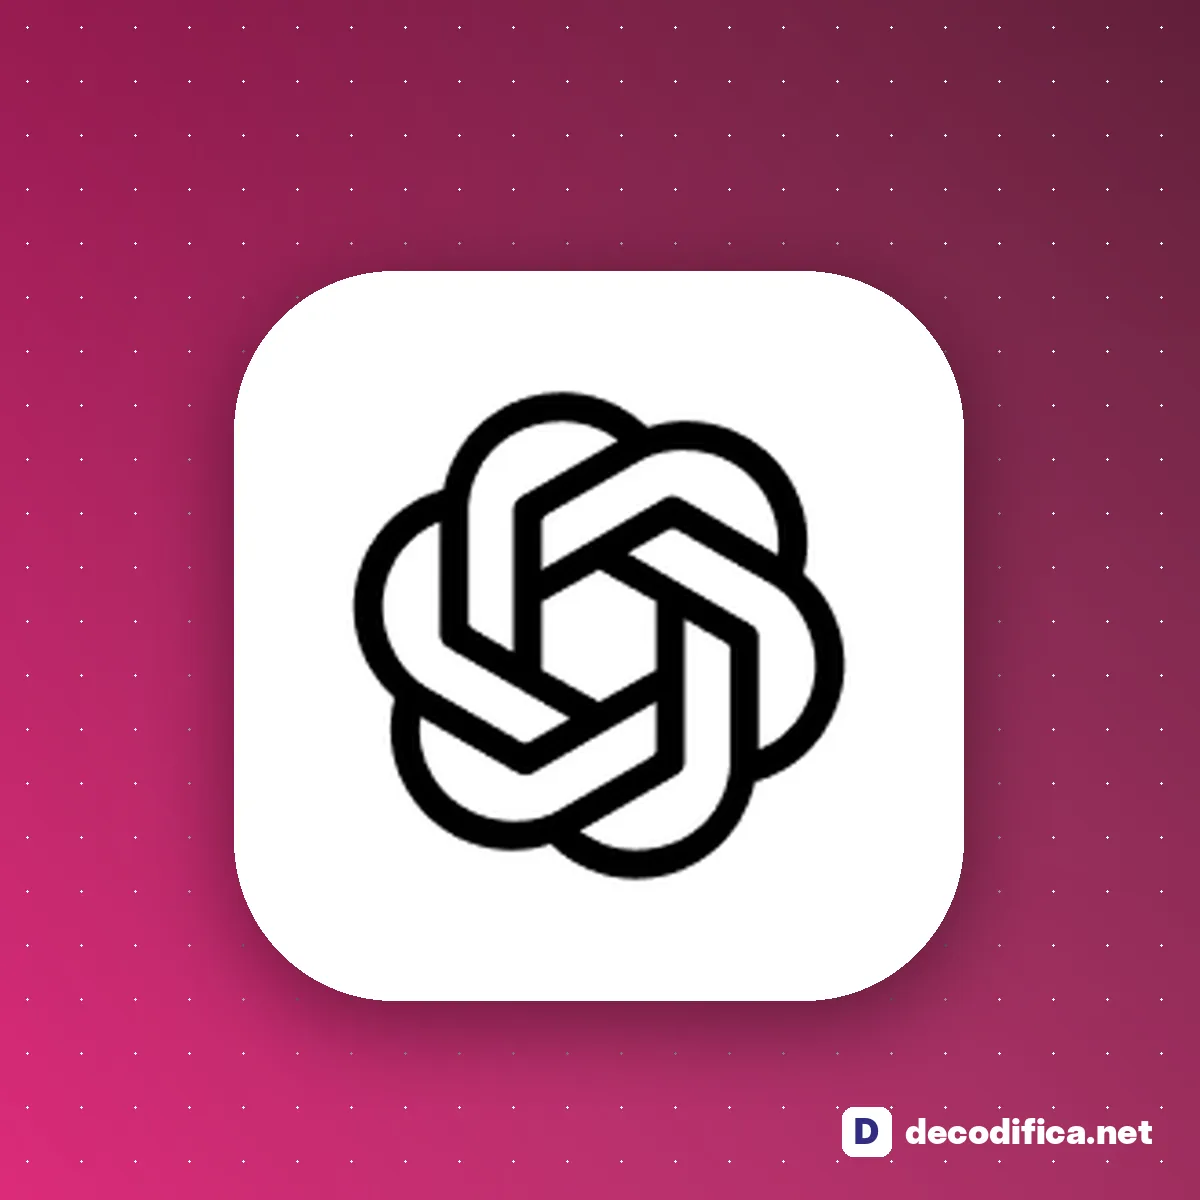
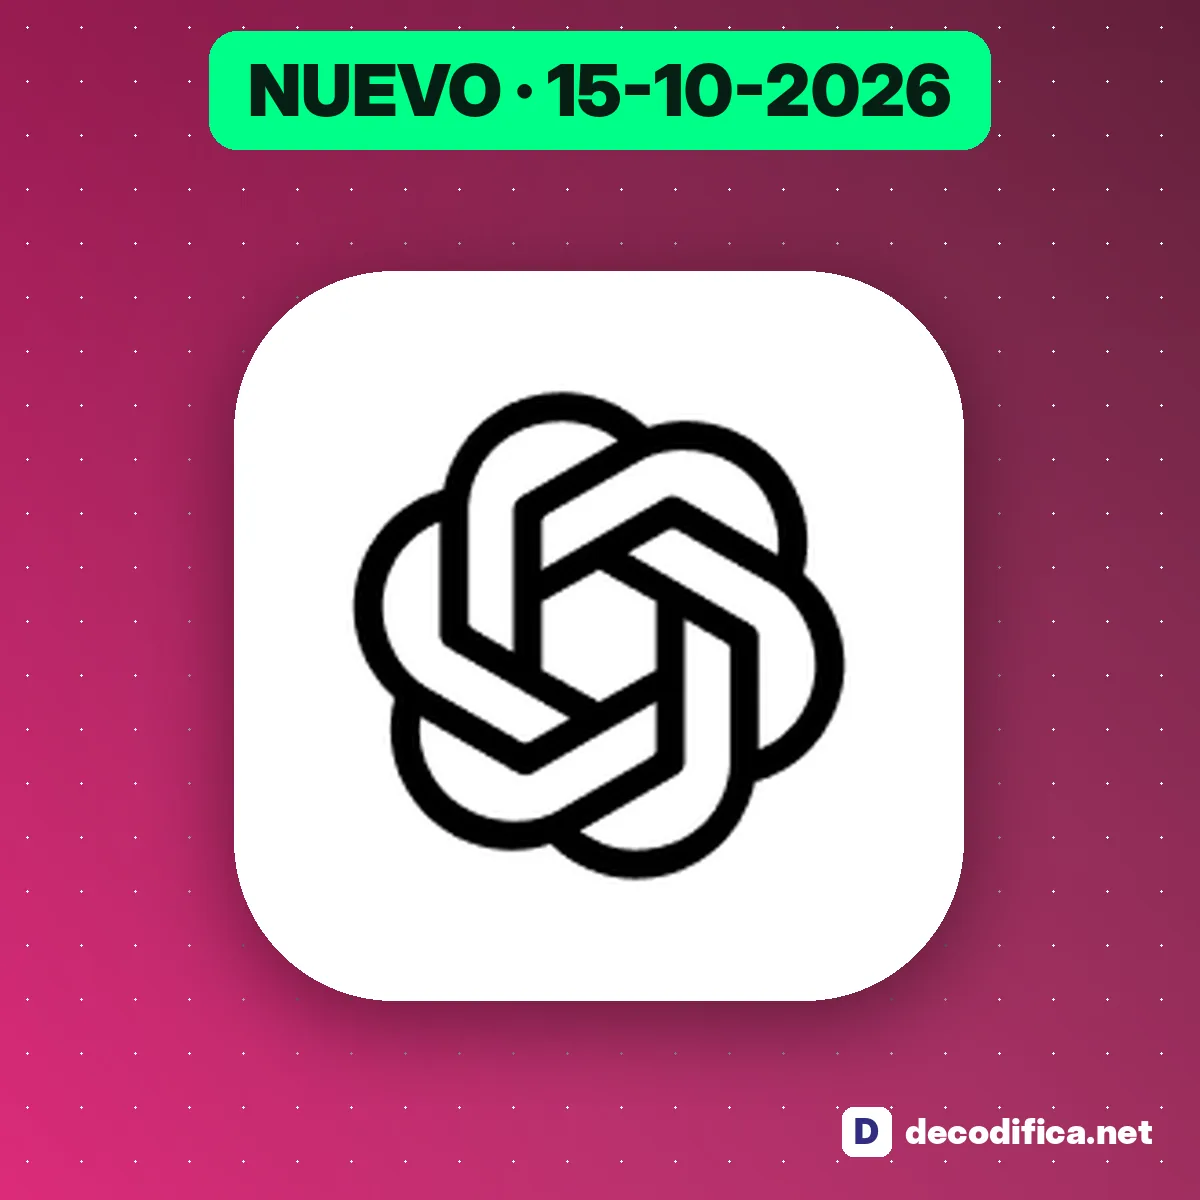
Novedad 16-10-2026: GPT-Live-1.1 y voces en español en la voz de ChatGPT
Sección nueva en gpt-live-voz-chatgpt con fuentes oficiales (notas de versión
y guía de ChatGPT Voice), En resumen, límites por plan y portada novedad.
Nota del agente en docs/novedades/2026-10-16.md.

Claude-Session: https://claude.ai/code/session_01WKvVkeLXEkx2ZxerdVGufE

Changed region(s): [[0.1542, 0.0, 0.8325, 0.1233]]

diff --git a/docs/novedades/2026-10-16.md b/docs/novedades/2026-10-16.md
@@ -1,0 +1,25 @@
+# Novedades de IA — 16-10-2026
+
+Agente de novedades. Ventana mirada: 12 al 16 de octubre de 2026.
+
+## Elegida
+
+**GPT-Live-1.1 y voces nuevas en la voz de ChatGPT (OpenAI, 15-10-2026).**
+
+- Oficial: notas de versión de ChatGPT (entrada del 15-10-2026) y guía de ayuda de ChatGPT Voice, abiertas el 16-10-2026 (con navegador sin pantalla; con curl daban 403).
+- Interesa a gente normal en español: trae dos voces de **español de México** (Tinta y Arrullo) y llega también al plan gratuito (con el modelo pequeño GPT-Live-1.1 Quip y acceso limitado).
+- Encaja: la web ya tenía `gpt-live-voz-chatgpt`. En vez de escribir otro artículo, se le añadió una sección de novedad con fecha visible, «En resumen», tabla de modelo y horas por plan, cómo poner una voz en español y lo que Live no hace. Título y descripción actualizados (misma URL); portada cambiada a plantilla `novedad`.
+- Enlace nuevo hacia él desde `crear-agente-voz-ia-sin-programar`.
+
+No confirmado: en qué países salen ya las voces en español (OpenAI dice que «pueden variar según la región y la cuenta» y no da lista). El artículo lo dice así. Tampoco se pudo sacar una captura de las notas de versión (protección antirobots); se usó un esquema propio con los datos de la guía oficial.
+
+## Descartadas
+
+- **GPT-6 e «Intelligent UI» en ChatGPT (07-10-2026):** grande y oficial, pero fuera de la ventana de 4 días (9 días). Buen tema para el agente del lunes (posible artículo «GPT-6 en ChatGPT gratis: qué cambia»).
+- **Gemini 4 Argon en la app de Gemini (13-10-2026, blog.google):** dentro de la ventana, pero solo para suscriptores de Google AI Pro y Ultra; no llega al plan gratuito. Interesa menos al público general. Candidato para el lunes si hay demanda en Search Console.
+- **Claude Haiku 5.5, Dashboards/Motion, créditos API (6-8 de octubre):** fuera de la ventana; Haiku 5.5 interesa más a desarrolladores.
+- **Gemini Enterprise / agente de Gemini para empresas (08-10-2026):** empresas, fuera de la ventana.
+- **Rosalind Academic Plan y límite de Sites en ChatGPT (15-10-2026):** solo laboratorios de EE. UU. / detalle menor.
+- **Ollama 0.40 con MLX:** solo versiones candidatas, no versión estable.
+- **«Muse Spark Open» de Meta:** solo en agregadores; no se encontró anuncio oficial. Descartado.
+- **Copilot / LM Studio:** nada oficial y relevante en la ventana.

diff --git a/_ESTADO.md b/_ESTADO.md
@@ -145,3 +145,4 @@ Rama `agente/para-las-ia`. Reglas nuevas para los agentes en `docs/AGENTE-SEMANA
 - **12-10-2026:** rama `agente/2026-10-12`. Artículos nuevos: `claude-ia-que-es-gratis` y `ollama-que-es-como-usar`. Arreglado `crear-agente-voz-ia-sin-programar` (precios actualizados; título nuevo). Sin cambios de títulos por falta de datos nuevos. Informe: `docs/informes/2026-10-12.md`; redes: `docs/redes/2026-10-12.md`.
   - El informe de Search Console del lunes no se había generado a las 11:52 (retraso de las tareas programadas de GitHub). Si se repite, valorar mover la rutina del agente más tarde o lanzar el informe a mano.
   - Pendiente: precio de la API Realtime de OpenAI (openai.com da 403).
+- **16-10-2026 (agente de novedades):** rama `agente/novedad-2026-10-16`. Novedad: GPT-Live-1.1 y voces en español de México en la voz de ChatGPT (15-10-2026), añadida como sección al artículo `gpt-live-voz-chatgpt` (título, descripción y portada `novedad` nuevos). Nota: `docs/novedades/2026-10-16.md`. Las páginas de ayuda de OpenAI se abren con el navegador sin pantalla (Chromium de Playwright) aunque con curl den 403. Ideas para el lunes: GPT-6 en ChatGPT gratis (07-10-2026) y Gemini 4 Argon (13-10-2026, solo Pro/Ultra).
